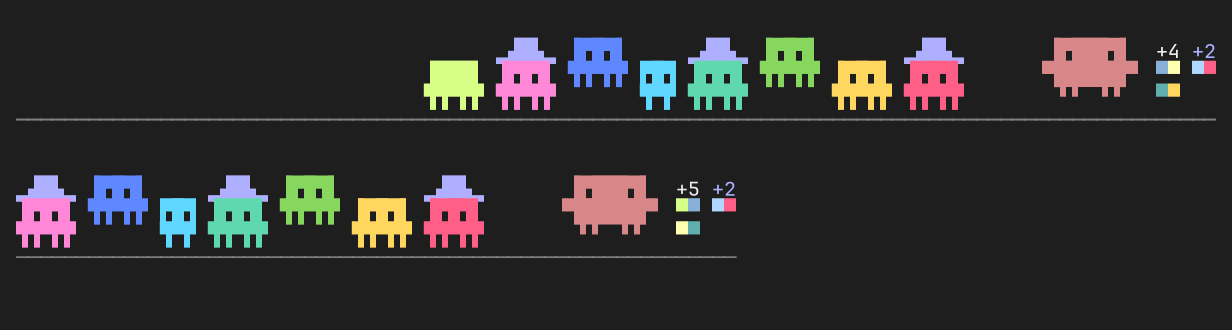
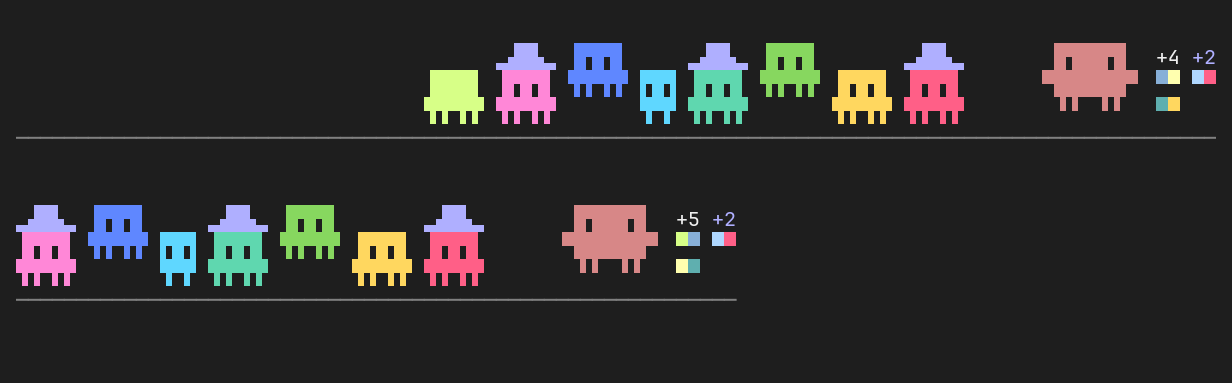
docs: grid of every action, new rows and moods; release 0.6.0

diff --git a/README.ja.md b/README.ja.md
@@ -19,10 +19,10 @@
 
 ## 特長
 
-- **作業を演じる**：Claude が考えている間は歩き回り、シェルコマンドではタイピング、読み込み中は目をきょろきょろ、検索中は虫めがねをかざし、編集中はハンマーを振り、skill では魔法をかけ、MCP 呼び出しでは頭のアンテナから電波を出します。
+- **作業を演じる**：Claude が考えている間は歩き回り、シェルコマンドではタイピング、読み込み中はページを掲げ、検索中は虫めがねをかざし、Web ページの取得中はダウンロードバーを見守り、編集中はハンマーを振り、skill では魔法をかけ、MCP 呼び出しでは頭のアンテナから電波を出し、タスクリストではチェックを入れ、plan モードでは設計図を描き、会話の圧縮中は両側から押しつぶされます。
 - **サブエージェントごとに小さな Clawd**：実行中のサブエージェント（workflow のエージェントも含む）それぞれに、自分の色の小さな Clawd が付きます。サブエージェントがさらに起動したサブエージェントは、もっと小さくなります。workflow のエージェントは紫のシルクハットをかぶります。エージェントが終わると去っていきます。
 - **あなたに反応する**：プロンプトに入力すると一緒にタイピングし、最後に押したキーを掲げます。クリックすると、そのときの状態に合わせて反応します。クリックで Clawd の文字が選択されることはないので、反転表示もコピーもされません。
-- **気分がある**：ターンが終わるとお祝いし、ツールが失敗すると驚き、静かな時間が 2 分ほど続くと眠ります。
+- **気分がある**：セッションが始まるとあいさつし、ターンが終わるとお祝いし、中断されると肩をすくめ、エラーでは落ち込み、ツールが失敗すると驚き、待っている間は小さなしぐさをし、静かな時間が 10 分続くと眠ります。
 - **カラフル**：Clawd はウェルカム画面と同じテーマのオレンジのまま。小さな Clawd は 12 色、紙吹雪、きらきら、`z`、電波、煙にもそれぞれ色があります。すべての文字が 1 カラム幅なので、CJK 端末でもずれません。
 
 ## インストール
@@ -43,26 +43,35 @@ claude plugin install clawd --marketplace wray-lee/clawd
 
 ## Clawd のしぐさ
 
-<img src="docs/assets/actions.gif" alt="Clawd が歩く、タイピング、読み込み、検索、編集、魔法、MCP の電波、一緒にタイピング、お祝い、失敗、昼寝を順に演じる" width="560">
+<img src="docs/assets/actions.gif" alt="Clawd のすべてのしぐさを並べたグリッド、同時に再生" width="100%">
 
 | とき | Clawd |
 | --- | --- |
 | Claude が考えている | 行ったり来たり歩く |
 | シェルコマンドの実行中 | タイピング、頭上に `>_` |
-| ファイルやページの読み込み中 | 目をきょろきょろ、頭上に `...` |
+| ファイルの読み込み中 | 開いたページを横に持ち、ときどきめくる |
+| Web ページの取得中 | 頭上のダウンロードバー `[==...]` がたまっていく |
 | 検索中（Grep、Glob、Web 検索） | 虫めがねを左右にかざす、頭上に `?` |
 | ファイルの編集中 | ハンマーを振り、火花が飛ぶ |
 | skill の使用中 | 両手を上げ、2 つの火花が頭のまわりを回る |
 | MCP ツールの呼び出し中 | 頭のアンテナから `( ( \| ) )` |
+| タスクリストを書いている | 頭上の `[x]` に順にチェック |
+| plan モードに入る・出る | 青緑の設計図を掲げて道筋を描く |
+| 会話の圧縮中 | `>>` と `<<` に終わるまで押しつぶされる |
+| セッションが始まった | にっこり目で手を振る、`hi!` |
 | ターンが終わった | にっこり目でジャンプ、紙吹雪が舞う |
 | ツールが失敗した | `!` とぶるっと震える |
-| 何もないとき | まばたき、よそ見、ジャンプ |
-| 約 2 分たった | `z Z` で眠る、入力すると起きる |
+| ターンを中断した | 肩をすくめる、`-.-` |
+| ターンがエラーか拒否で終わった | 目を伏せ、涙がこぼれる |
+| 何もないとき | まばたきし、8 秒ごとに 14 種のしぐさからランダムに 1 つ：ジャンプ、手を振る、伸び、きょろきょろ、ダンス、鼻歌、あくび、くしゃみ、ハート `<3`、お手玉、しゃがんでジャンプ、星を見る、バンザイ、うとうとしてはっと起きる |
+| 10 分たった | `z Z` で眠る、入力すると起きる |
 | プロンプトに入力中 | 一緒にタイピング、最後のキーを掲げる |
 
 ツールのしぐさは最低 1.5 秒続くので、すぐ終わる検索や skill も一瞬で消えずに見えます。
 
 <img src="docs/assets/actions.png" alt="しぐさごとに 1 コマ、説明付き" width="100%">
+
+ダイアログ（権限の確認や質問）がプロンプトを占めている間は、エンジンがバンドを隠すので Clawd は表示されません。
 
 ### サブエージェントの小さな Clawd
 
@@ -74,9 +83,9 @@ claude plugin install clawd --marketplace wray-lee/clawd
 - 色は 12 色のパレット（`hooks/palette.ts`）からランダムに選ばれます。xterm-256 色なので、256 色端末でも同じ色にまとまりません。12 色を使い切るまで、画面上で色がかぶることはありません。
 - workflow が起動したエージェントは、`ultracode` ラベルと同じ紫のシルクハットをかぶるので、普通のサブエージェントと見分けられます。体がこの紫になることはありません。
 - 小さな Clawd は Clawd の広い側に並びます。通常サイズと小サイズは最大 8 匹まで描かれます。1 ピクセルの点はこの数に含まれず、場所があればすべて描かれます。残りは `[-]` の下に細い 2 列で数えられます。普通のサブエージェントが先、workflow のエージェントが後で、`+N`（workflow はシルクハットの紫）の下にそれぞれの色の点が並びます。小さな Clawd は Clawd のエフェクトを避けるので、ハンマーや紙吹雪が隠れることはありません。
+- エンジンがエージェントを完了、失敗、または停止と報告すると去ります。バックグラウンドの作業を待っているサブエージェントの Clawd は残ります。
 
 <img src="docs/assets/crowd.png" alt="Clawd の横に小さな Clawd が 8 匹。[-] の下にサブエージェントの +4 の列と色付きの点、紫の workflow エージェントの +2 の列" width="100%">
-- エンジンがエージェントを完了、失敗、または停止と報告すると去ります。バックグラウンドの作業を待っているサブエージェントの Clawd は残ります。
 
 ### Clawd をクリック
 
@@ -85,8 +94,8 @@ claude plugin install clawd --marketplace wray-lee/clawd
 | 待機中 | にっこり目でくすくす笑い、きらきら |
 | 眠っている | `!` で目を覚ます |
 | 歩いている | くるっと回って目を回す |
-| コマンド実行中 | 手で追い払う、`!?` |
-| 読み込み中 | 顔を上げてあなたを見る、`o.o` |
+| コマンド実行中、圧縮中 | 手で追い払う、`!?` |
+| 読み込み、Web 取得、タスクリスト、計画中 | 顔を上げてあなたを見る、`o.o` |
 | 編集中 | ハンマーで自分の頭をこつん |
 | お祝い中 | ハイタッチ |
 | 検索中 | 見つけた！虫めがねを高く掲げて `!` |

diff --git a/README.zh-CN.md b/README.zh-CN.md
@@ -19,10 +19,10 @@
 
 ## 特性
 
-- **把工作演出来**：Claude 思考时来回走，跑命令时打字，读文件时眼睛左右扫，搜索时举放大镜，改代码时挥锤子，用 skill 时施魔法，调 MCP 时头顶天线发信号。
+- **把工作演出来**：Claude 思考时来回走，跑命令时打字，读文件时举着文件页，搜索时举放大镜，抓取网页时看着下载进度条，改代码时挥锤子，用 skill 时施魔法，调 MCP 时头顶天线发信号，写任务清单时打勾，plan 模式下画图纸，压缩对话时被两边挤着。
 - **每个子代理一只小 Clawd**：每个运行中的子代理（包括 workflow 里的）都有一只自己颜色的小 Clawd。子代理再开的子代理更小。workflow 的代理戴一顶紫色礼帽。代理结束，小 Clawd 就离开。
 - **会回应你**：你在输入框打字时它跟着打，头顶举着你刚按的键；点它一下，它按当前状态做出反应。点击永远不会选中 Clawd 的文字，所以不会反色，也不会被复制。
-- **有情绪**：一轮回答完成会庆祝，工具出错会吓一跳，安静两分钟后睡着。
+- **有情绪**：会话开始时打招呼，一轮回答完成会庆祝，被你打断会耸肩，出错时会难过，工具出错会吓一跳，等待时会做小动作，安静十分钟后睡着。
 - **色彩丰富**：Clawd 保留欢迎界面同款主题橙色；小 Clawd 有 12 种颜色，彩纸、星星、`z`、信号、烟雾也各有颜色。所有字符都是单列宽，CJK 终端不会错位。
 
 ## 安装
@@ -43,26 +43,35 @@ claude plugin install clawd --marketplace wray-lee/clawd
 
 ## Clawd 会做什么
 
-<img src="docs/assets/actions.gif" alt="Clawd 依次演示各个动作：走路、打字、读文件、搜索、改代码、施魔法、MCP 信号、跟着打字、庆祝、出错和睡觉" width="560">
+<img src="docs/assets/actions.gif" alt="Clawd 所有动作的宫格，同时播放" width="100%">
 
 | 时机 | Clawd |
 | --- | --- |
 | Claude 思考时 | 来回走 |
 | 运行 shell 命令时 | 打字，头顶 `>_` |
-| 读文件或网页时 | 眼睛左右扫，头顶 `...` |
+| 读文件时 | 身旁举着摊开的文件页，时不时翻一页 |
+| 抓取网页时 | 头顶下载进度条 `[==...]` 慢慢填满 |
 | 搜索时（Grep、Glob、网页搜索） | 左右举放大镜，头顶 `?` |
 | 编辑文件时 | 挥锤，冒火花 |
 | 使用 skill 时 | 举起双手，两串火花绕着头转 |
 | 调用 MCP 工具时 | 头顶天线发出 `( ( \| ) )` |
+| 写任务清单时 | 头顶的 `[x]` 一个个打勾 |
+| 进入或退出 plan 模式时 | 举着一张青绿色图纸，在上面画路线 |
+| 压缩对话时 | 两边 `>>` `<<` 挤着它，直到压缩完 |
+| 会话开始时 | 笑眼挥手，`hi!` |
 | 一轮回答完成时 | 笑眼、蹦跳、撒彩纸 |
 | 工具出错时 | `!` 加抖一下 |
-| 空闲时 | 眨眼、张望、蹦一下 |
-| 空闲约 2 分钟后 | 睡觉冒 `z Z`，你一打字就醒 |
+| 你打断这一轮时 | 耸肩，`-.-` |
+| 这一轮因出错或拒答结束时 | 眼睛低垂，掉一滴眼泪 |
+| 空闲时 | 眨眼，每 8 秒从 14 种小动作里随机做一个：蹦跳、挥手、伸懒腰、东张西望、跳舞、哼歌、打哈欠、打喷嚏、冒爱心 `<3`、抛球、蹲下再跳、看星星、欢呼、打瞌睡后惊醒 |
+| 空闲 10 分钟后 | 睡觉冒 `z Z`，你一打字就醒 |
 | 你在输入框打字时 | 跟着打字，举着你刚按的键 |
 
 每个工具的动作至少播放 1.5 秒，快速的搜索或 skill 也看得到，不会一闪而过。
 
 <img src="docs/assets/actions.png" alt="每个动作一帧，带说明" width="100%">
+
+弹出对话框（权限确认或提问）占住输入框时，引擎会隐藏这块区域，Clawd 不显示。
 
 ### 子代理小 Clawd
 
@@ -74,9 +83,9 @@ claude plugin install clawd --marketplace wray-lee/clawd
 - 颜色从 12 种颜色的色库（`hooks/palette.ts`）里随机挑。都是 xterm-256 色，256 色终端里也不会混成一样；12 种用完之前，同屏的小 Clawd 不会撞色。
 - workflow 启动的代理戴一顶礼帽，颜色是 `ultracode` 标签的紫色，一眼就能和普通子代理区分。小 Clawd 的身体永远不会是这种紫色。
 - 小 Clawd 排在 Clawd 空间更大的那一侧。完整和小号的最多画 8 只；像素点不算在内，有空间就都画出来。其余的在 `[-]` 下方纵向排成两窄列：先是普通子代理，再是 workflow 代理，各自是 `+N`（workflow 的用礼帽紫色），下面是每只对应颜色的像素点。小 Clawd 会避开 Clawd 的特效，锤子、彩纸都不会被挡住。
+- 引擎报告代理已完成、失败或被终止时，小 Clawd 离开；还在等后台任务的子代理会继续留着。
 
 <img src="docs/assets/crowd.png" alt="Clawd 旁边八只小 Clawd；[-] 下方一列是普通子代理的 +4 和彩色像素点，一列是紫色的 workflow 代理 +2" width="100%">
-- 引擎报告代理已完成、失败或被终止时，小 Clawd 离开；还在等后台任务的子代理会继续留着。
 
 ### 点击 Clawd
 
@@ -85,8 +94,8 @@ claude plugin install clawd --marketplace wray-lee/clawd
 | 空闲 | 笑眼咯咯笑，冒星星 |
 | 睡觉 | 被叫醒，头顶 `!` |
 | 走路 | 原地转身，晕乎乎 |
-| 跑命令 | 挥手赶你，`!?` |
-| 看书 | 抬头看你，`o.o` |
+| 跑命令或压缩对话 | 挥手赶你，`!?` |
+| 看书、抓网页、写清单或做计划 | 抬头看你，`o.o` |
 | 敲代码 | 锤子砸到自己头上 |
 | 庆祝 | 和你击掌 |
 | 搜索 | 找到了！举起放大镜，`!` |

diff --git a/README.md b/README.md
@@ -20,9 +20,11 @@ English | [简体中文](README.zh-CN.md) | [日本語](README.ja.md)
 ## Features
 
 - **Acts out the work.** Clawd walks while Claude thinks, types at a shell
-  command, scans with its eyes while reading, holds up a magnifying glass to
-  search, hammers while editing, casts a spell for a skill, and raises an
-  antenna for an MCP call.
+  command, holds up the pages it reads, holds up a magnifying glass to
+  search, watches a download bar fill for a web page, hammers while editing,
+  casts a spell for a skill, raises an antenna for an MCP call, ticks boxes
+  for the task list, draws a blueprint in plan mode, and gets squeezed while
+  the conversation compacts.
 - **A helper per subagent.** Each running subagent, workflow agents included,
   gets a small Clawd in its own color. A subagent's own subagents are smaller
   still. A workflow's agents wear a purple top hat. Each helper leaves when
@@ -30,8 +32,9 @@ English | [简体中文](README.zh-CN.md) | [日本語](README.ja.md)
 - **Reacts to you.** Clawd types along with you in the prompt and holds up the
   last key. Click it and it reacts to what it is doing. A click never selects
   Clawd's text, so it is never highlighted or copied.
-- **Moods.** Clawd celebrates a finished turn, startles when a tool fails, and
-  naps after two quiet minutes.
+- **Moods.** Clawd says hi when a session starts, celebrates a finished turn,
+  shrugs when you interrupt, looks sad at an error, startles when a tool
+  fails, fidgets while it waits, and naps after ten quiet minutes.
 - **Colorful.** Clawd keeps the welcome screen's own theme orange. Helpers
   come in 12 colors, and confetti, sparkles, `z`'s, signals and smoke each have their
   own. Every glyph is one column wide, so CJK terminals stay aligned.
@@ -55,27 +58,37 @@ Restart Claude Code to load it. `/clawd` hides or shows the band.
 
 ## What Clawd does
 
-<img src="docs/assets/actions.gif" alt="Clawd plays each of its actions in turn: walking, typing, reading, searching, editing, casting a spell, MCP waves, typing along, celebrating, oops and napping" width="560">
+<img src="docs/assets/actions.gif" alt="A grid of all of Clawd's actions, each playing at once" width="100%">
 
 | When | Clawd |
 | --- | --- |
 | Claude is thinking | walks back and forth |
 | a shell command runs | types, `>_` above |
-| Claude reads a file or a page | eyes scan, `...` above |
+| Claude reads a file | holds the open pages beside it, turning one now and then |
+| Claude fetches a web page | a download bar `[==...]` fills above its head |
 | Claude searches (Grep, Glob, web search) | holds a magnifying glass out to each side, `?` |
 | Claude edits files | hammers, sparks fly |
 | Claude uses a skill | arms up, two comets of sparks circle its head |
 | Claude calls an MCP tool | an antenna on its head sends out `( ( \| ) )` |
+| Claude writes the task list | ticks `[x]` boxes above its head |
+| Claude enters or leaves plan mode | holds up a teal blueprint and draws a route on it |
+| the conversation compacts | `>>` and `<<` squeeze it until it's done |
+| a session starts | waves with happy eyes, `hi!` |
 | a turn finishes | happy eyes, hops, confetti falls |
 | a tool fails | `!` and a shake |
-| nothing happens | blinks, glances, hops |
-| about 2 minutes pass | sleeps with `z Z`, wakes when you type |
+| you interrupt the turn | shrugs, `-.-` |
+| the turn ends in an error or a refusal | eyes cast down, a tear rolls |
+| nothing happens | blinks, and every 8 seconds plays one of 14 fidgets at random: hops, waves, stretches, looks around, dances, hums, yawns, sneezes, shows a heart `<3`, juggles, crouches and jumps, stargazes, cheers, or nods off and snaps awake |
+| 10 quiet minutes pass | sleeps with `z Z`, wakes when you type |
 | you type in the prompt | types along, holds up your last key |
 
 Each tool's action plays for at least 1.5 seconds, so a quick search or skill
 is seen and not just a flicker.
 
 <img src="docs/assets/actions.png" alt="One frame of each action, labeled" width="100%">
+
+Clawd shows nothing while a dialog (a permission prompt or a question) holds
+the prompt: the engine hides the band then.
 
 ### Helpers for subagents
 
@@ -100,10 +113,10 @@ is seen and not just a flicker.
   purple for the workflow's) with a pixel in each one's color below it.
   Helpers keep clear of Clawd's effects, so a hammer or confetti is never
   covered.
-
-<img src="docs/assets/crowd.png" alt="Eight helper Clawds beside Clawd; under the [-], a +4 column with colored pixels for subagents and a purple +2 column for workflow agents" width="100%">
 - A helper leaves when the engine reports its agent as completed, failed or
   killed. A subagent that is still waiting on background work keeps its helper.
+
+<img src="docs/assets/crowd.png" alt="Eight helper Clawds beside Clawd; under the [-], a +4 column with colored pixels for subagents and a purple +2 column for workflow agents" width="100%">
 
 ### Click Clawd
 
@@ -112,8 +125,8 @@ is seen and not just a flicker.
 | idle | giggles with happy eyes and sparkles |
 | asleep | wakes up with a `!` |
 | walking | spins around, dizzy |
-| running a command | waves you off, `!?` |
-| reading | looks up at you, `o.o` |
+| running a command or compacting | waves you off, `!?` |
+| reading, fetching, on the task list or a plan | looks up at you, `o.o` |
 | editing | bonks its own head with the hammer |
 | celebrating | gives a high five |
 | searching | found it! Glass held high, `!` |

diff --git a/CONTRIBUTING.md b/CONTRIBUTING.md
@@ -25,6 +25,7 @@ claude plugin test .
 - `hooks/view.ts`: the surface module that draws the band in its own region and posts clicks
 - `hooks/register.tsx`: the engine hooks
 - `tests/`: the tests, run by `claude plugin test .`
+- `scripts/`: tools for the README's images and for measuring performance
 
 ## Add an action
 
@@ -37,11 +38,20 @@ claude plugin test .
 
 The tests check every listed action stays inside the band at any width.
 
-## Screenshots
+## Screenshots and measurements
 
-`docs/assets/` holds the README images, taken from a real session in tmux
-(`tmux capture-pane -e`) and drawn to PNG and GIF with ImageMagick. Retake
-them when the look of Clawd changes.
+`docs/assets/` holds the README images. Redraw them when the look of Clawd
+changes. The tools in `scripts/` need bun, python3, ImageMagick 7 with Pango,
+and the JetBrains Mono font.
+
+- `scripts/render.sh` redraws `actions.gif`, `actions.png` and `crowd.png`
+  from the code. Add an action to `scripts/frames.ts` to put it in them.
+- The other images come from a real session in tmux: capture it with
+  `tmux capture-pane -e -p > shot.ans`, then
+  `python3 scripts/ansi2png.py shot.ans shot.png --session`.
+- `bun scripts/perf.ts` counts redraws a minute, idle and asleep, and times
+  one frame. Each change of the frame redraws the whole UI, so keep idle low.
+- `scripts/cpu.sh <tmux session>` measures a session's CPU use.
 
 ## Commits
 

diff --git a/CHANGELOG.md b/CHANGELOG.md
@@ -4,6 +4,30 @@ All notable changes to this project are documented here. The format follows
 [Keep a Changelog](https://keepachangelog.com/en/1.1.0/) and the project uses
 [Semantic Versioning](https://semver.org/).
 
+## [0.6.0] - 2026-11-12
+
+### Added
+
+- New actions: a download bar for a web fetch, ticked boxes for the task
+  list, a blueprint drawn in plan mode, and a squeeze while the conversation
+  compacts.
+- New moods: Clawd says hi when a session starts, shrugs when you interrupt
+  a turn, and looks sad when a turn ends in an error or a refusal.
+
+- Idle, Clawd plays one of 14 fidgets at random every 8 seconds: it hops,
+  waves, stretches, looks around, dances, hums, yawns, sneezes, shows a heart,
+  juggles, crouches and jumps, stargazes, cheers, or nods off and snaps awake.
+- `scripts/`: the tools that draw the README's images and measure redraws
+  and CPU use.
+
+### Changed
+
+- Clawd naps after 10 quiet minutes, not 2.
+- The README's images are drawn like a terminal draws: block rows meet with
+  no seam and no overlap.
+- Reading a file shows the open pages beside Clawd, one turning now and then.
+- The actions GIF is a grid with every action playing at once.
+
 ## [0.5.0] - 2026-11-12
 
 ### Added
